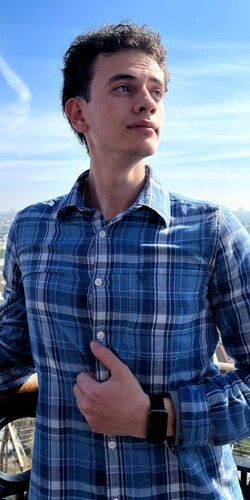
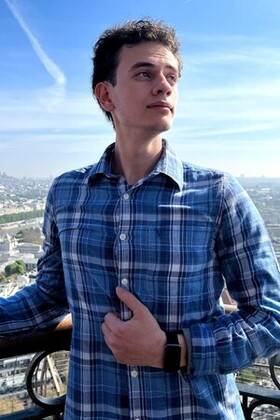
Add multiple sources for crazy long image

diff --git a/index.html b/index.html
@@ -153,7 +153,7 @@
     </div>
     <picture>
       <source media="(min-width: 1000px)" srcset="./images/crazy/crazy-chunky.jpg">
-      <img src="./images/crazy/crazy-long.jpg" alt="Roberto Meré">
+      <img srcset="./images/crazy/crazy-long-640.jpg 2x" src="./images/crazy/crazy-long-320.jpg" alt="Roberto Meré">
     </picture>
   </footer>
 </body>
